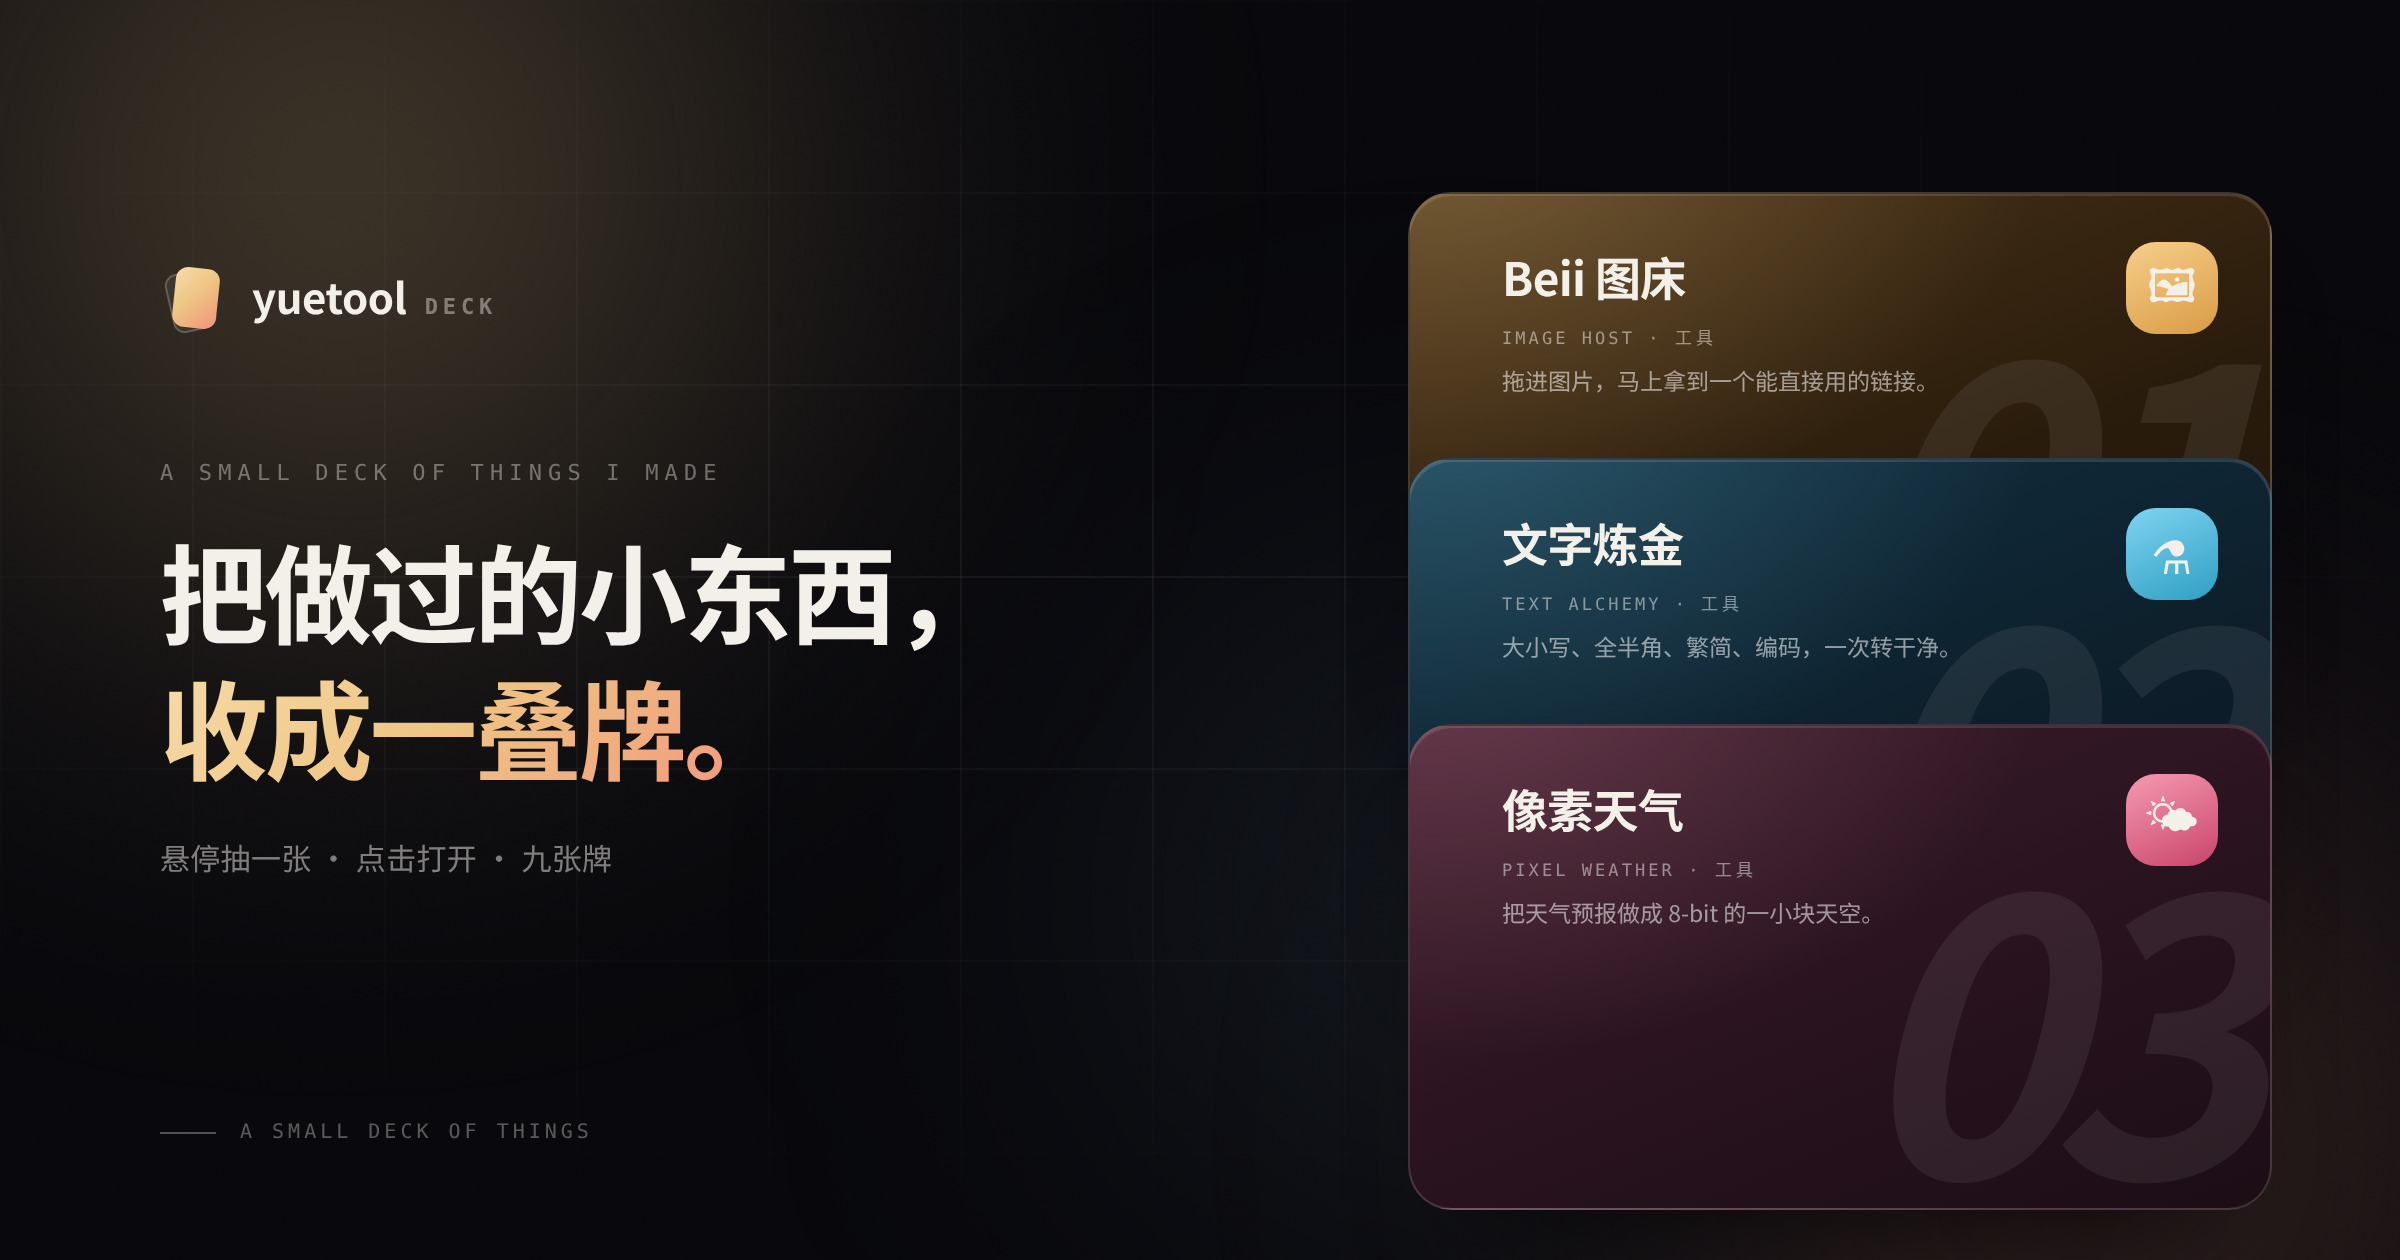
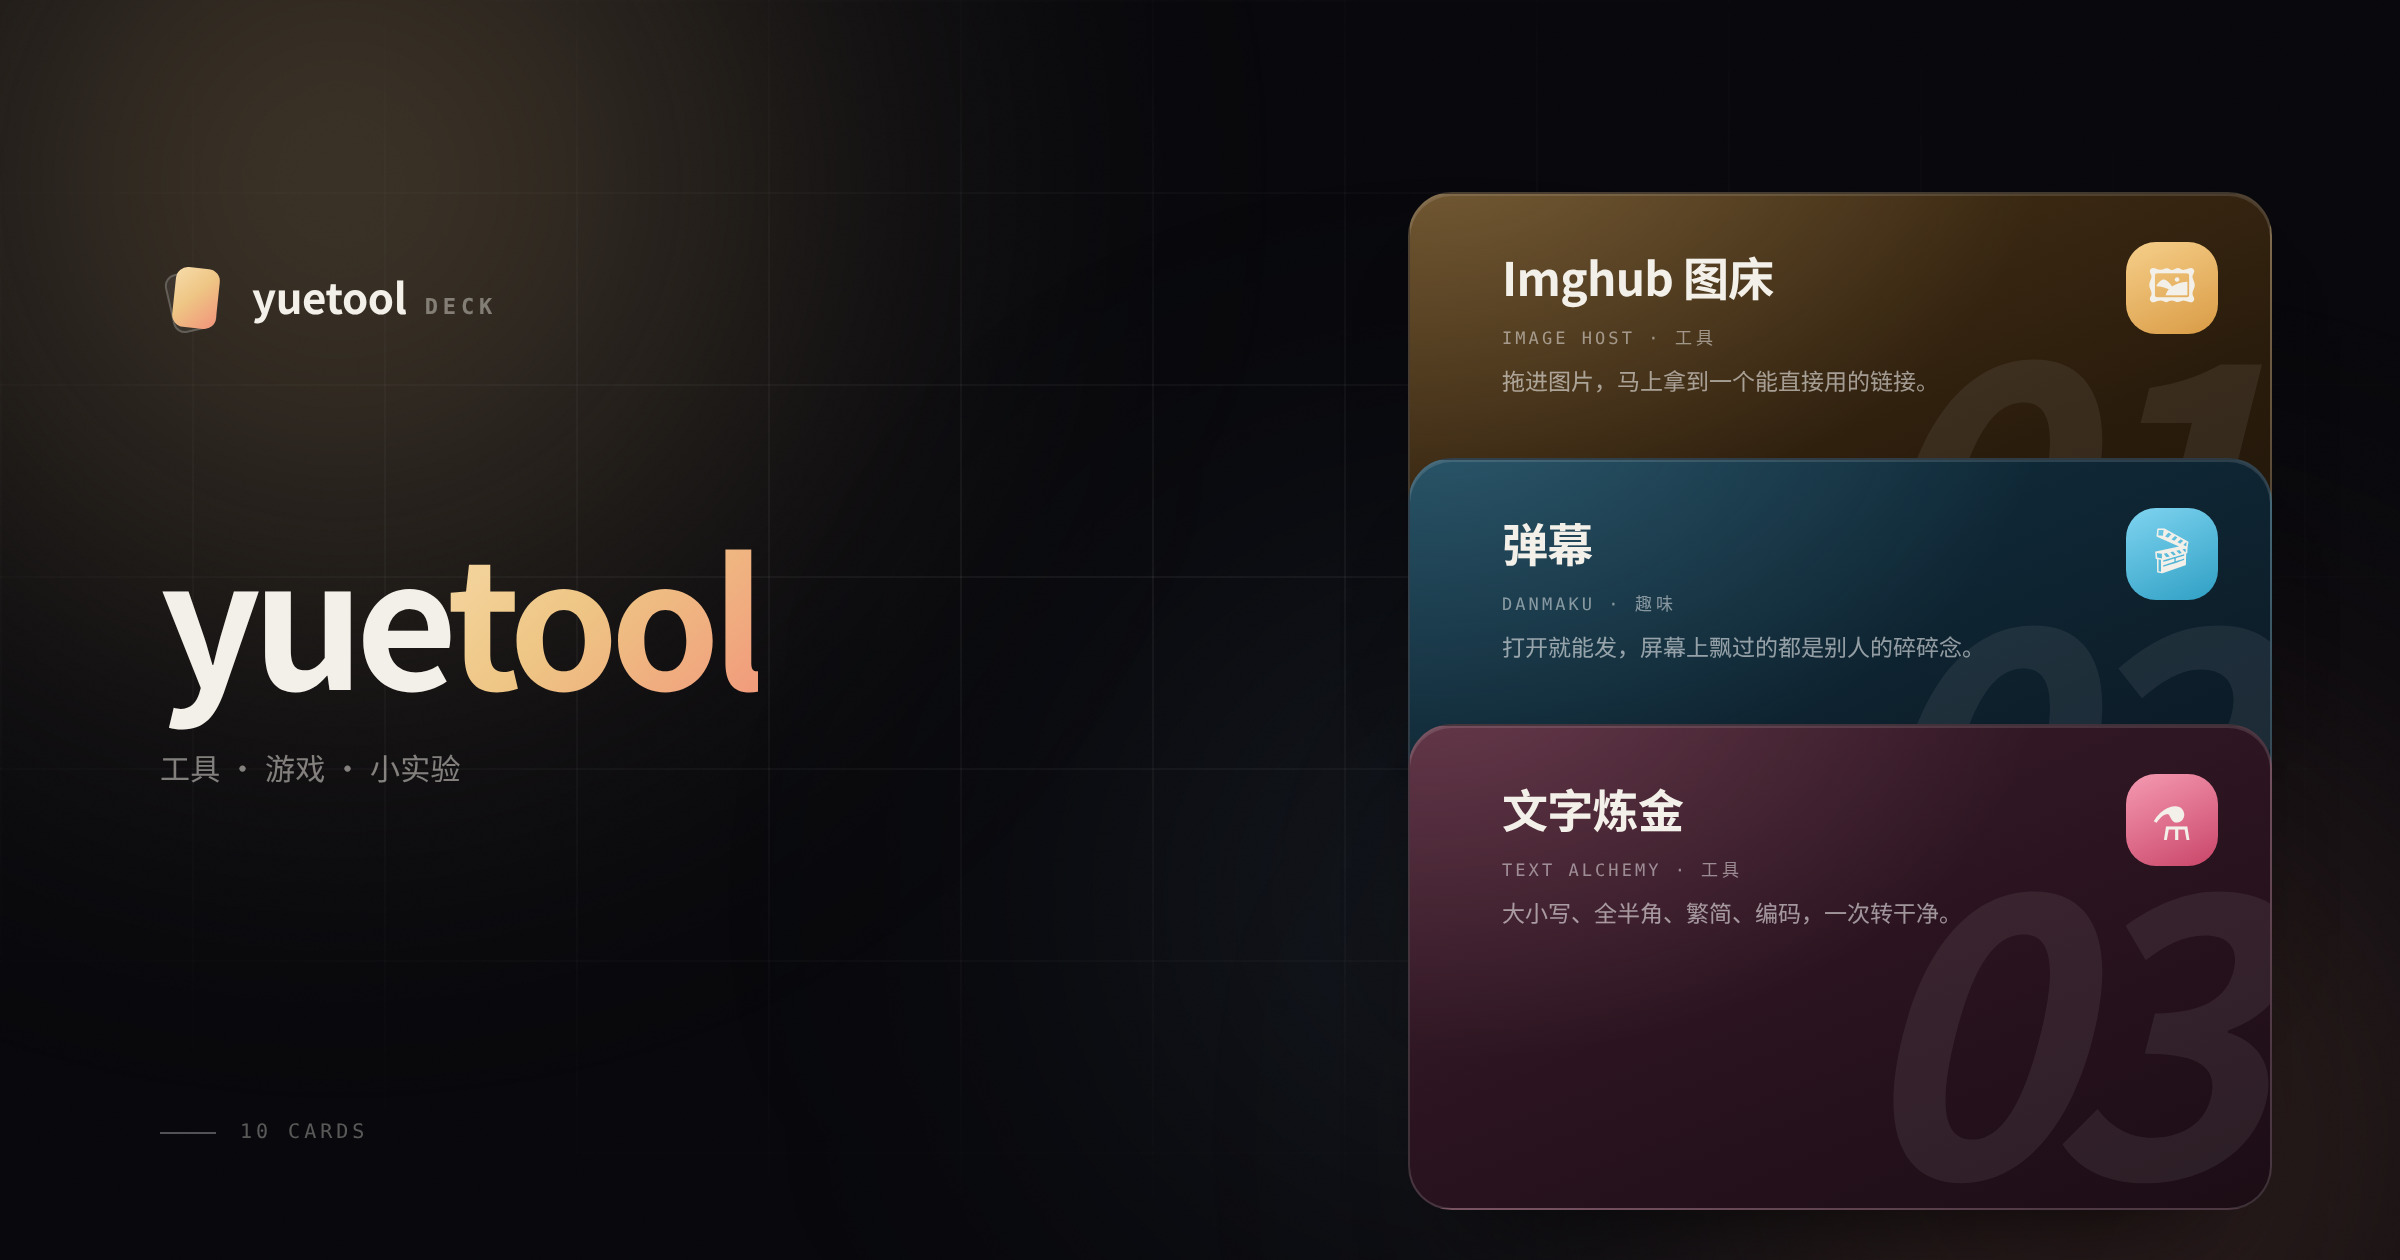
feat: rename image host to Imghub, add danmaku card, card lift effect

diff --git a/src/styles/card.css b/src/styles/card.css
@@ -1,7 +1,7 @@
 .card {
   --rw: var(--card-rw, 9);
   --rh: var(--card-rh, 16);
-  --lift: -17.65%;
+  --lift: -9.52%;
 
   position: relative;
   display: block;
@@ -69,6 +69,26 @@
 }
 :root[data-theme='light'] .card__frame {
   border-color: hsl(var(--hue) 60% 40% / 0.1);
+}
+
+/* 跟随指针的高光：像举到灯下的一张实体卡 */
+.card__face::before {
+  content: '';
+  position: absolute;
+  inset: 0;
+  z-index: 4;
+  pointer-events: none;
+  background: radial-gradient(
+    220px circle at var(--mx, 50%) var(--my, 0%),
+    hsl(var(--hue) 100% 95% / 0.16),
+    transparent 62%
+  );
+  opacity: 0;
+  transition: opacity 340ms var(--ease-out);
+}
+.card:hover .card__face::before,
+.card:focus-visible .card__face::before {
+  opacity: 1;
 }
 
 /* 扫过牌面的一道光 */
@@ -250,17 +270,21 @@
 }
 
 /* 横版 + 精确指针：整张牌向左抽出，填满左侧预留的车道 */
-@media (hover: hover) and (pointer: fine) {
+@media (hover: hover) and (pointer: fine) and (min-width: 900px) {
   .card:hover .card__face,
   .card:focus-visible .card__face {
     will-change: transform;
   }
 
   .card:hover .card__face {
-    transform: translate3d(var(--lift), 0, 0) rotate(0deg);
-    border-color: hsl(var(--hue) 85% 74% / 0.42);
-    box-shadow: 0 34px 60px -32px hsl(var(--hue) 85% 22% / 0.95),
-      0 14px 26px -18px rgba(0, 0, 0, 0.6), inset 0 1px 0 hsl(var(--hue) 95% 88% / 0.16);
+    transform: translate3d(var(--lift), 0, 0) rotate(0deg) scale(1.022);
+    border-color: hsl(var(--hue) 88% 78% / 0.55);
+    filter: saturate(1.08) brightness(1.06);
+    box-shadow: 0 42px 72px -30px hsl(var(--hue) 85% 18% / 0.98),
+      0 18px 30px -18px rgba(0, 0, 0, 0.62),
+      0 0 56px -14px hsl(var(--hue) 92% 62% / 0.45),
+      inset 0 0 0 1px hsl(var(--hue) 95% 88% / 0.2),
+      inset 0 1px 0 hsl(var(--hue) 95% 92% / 0.2);
   }
   .card:hover .card__face::after {
     opacity: 1;
@@ -278,16 +302,21 @@
   }
 
   :root[data-theme='light'] .card:hover .card__face {
-    border-color: hsl(var(--hue) 55% 52% / 0.35);
-    box-shadow: 0 32px 56px -34px hsl(var(--hue) 55% 35% / 0.45),
-      0 14px 26px -20px rgba(60, 45, 30, 0.2), inset 0 1px 0 rgba(255, 255, 255, 0.9);
+    border-color: hsl(var(--hue) 62% 50% / 0.45);
+    filter: saturate(1.06) brightness(1.02);
+    box-shadow: 0 38px 64px -32px hsl(var(--hue) 55% 32% / 0.42),
+      0 18px 30px -22px rgba(60, 45, 30, 0.24),
+      0 0 48px -18px hsl(var(--hue) 65% 50% / 0.35),
+      inset 0 0 0 1px rgba(255, 255, 255, 0.55),
+      inset 0 1px 0 rgba(255, 255, 255, 0.9);
   }
   :root[data-theme='light'] .card:hover .card__series {
     color: hsl(var(--hue) 62% 34% / 0.11);
   }
 
   .card:active .card__face {
-    transform: translate3d(calc(var(--lift) * 0.5), 0, 0) rotate(0deg);
+    transform: translate3d(calc(var(--lift) * 0.55), 0, 0) rotate(0deg) scale(1.004);
+    transition-duration: 140ms;
   }
 }
 
@@ -450,5 +479,33 @@
   .card__about-links a {
     padding: 7px 13px;
     font-size: 0.74rem;
+  }
+}
+
+
+/* 有牌被抽出时，其余牌轻轻压暗，像舞台只打了一束光 */
+@media (hover: hover) and (pointer: fine) {
+  .deck:has(.card:hover) .card:not(:hover) .card__face {
+    filter: brightness(0.9) saturate(0.86);
+  }
+  :root[data-theme='light'] .deck:has(.card:hover) .card:not(:hover) .card__face {
+    filter: brightness(0.97) saturate(0.9);
+  }
+}
+
+/* 竖卡 + 精确指针：不做横向抽出（没有车道），只上浮一点 */
+@media (hover: hover) and (pointer: fine) and (max-width: 899.98px) {
+  .card:hover .card__face,
+  .card:focus-visible .card__face {
+    transform: translate3d(0, -8px, 0) rotate(var(--tilt, 0deg)) scale(1.012);
+    border-color: hsl(var(--hue) 88% 78% / 0.45);
+    box-shadow: 0 30px 50px -26px hsl(var(--hue) 85% 20% / 0.95),
+      0 0 40px -16px hsl(var(--hue) 92% 62% / 0.4);
+  }
+  .card:hover .card__icon {
+    transform: scale(1.05);
+  }
+  .card:active .card__face {
+    transform: translate3d(0, -3px, 0) rotate(var(--tilt, 0deg)) scale(0.995);
   }
 }

diff --git a/src/components/DeckIntro.vue b/src/components/DeckIntro.vue
@@ -22,17 +22,12 @@ defineExpose({ focus: () => input.value?.focus() })
 
 <template>
   <section class="intro" aria-labelledby="intro-title">
-    <div class="intro__copy">
-      <p class="intro__eyebrow">{{ site.eyebrow }}</p>
-      <h1 id="intro-title" class="intro__title">
-        {{ site.tagline }}<br />
-        <em>{{ site.taglineStrong }}</em>
-      </h1>
-      <p class="intro__hint">
-        {{ site.hint }}
-        <span class="intro__count">{{ count }}<span v-if="count !== total"> / {{ total }}</span> 张</span>
-      </p>
-    </div>
+    <h1 id="intro-title" class="visually-hidden">{{ site.name }} · 牌堆</h1>
+
+    <p class="intro__hint">
+      {{ site.hint }}
+      <span class="intro__count">{{ count }}<span v-if="count !== total"> / {{ total }}</span> 张</span>
+    </p>
 
     <div class="intro__tools">
       <label class="search" :class="{ 'is-focused': focused }">
@@ -76,49 +71,20 @@ defineExpose({ focus: () => input.value?.focus() })
 <style scoped>
 .intro {
   display: flex;
-  align-items: flex-end;
+  align-items: center;
   justify-content: space-between;
-  gap: clamp(20px, 4vw, 48px);
-  padding-bottom: clamp(24px, 3.4vw, 40px);
-}
-
-.intro__copy {
-  min-width: 0;
-}
-
-.intro__eyebrow {
-  font-family: var(--font-mono);
-  font-size: 0.6rem;
-  letter-spacing: 0.26em;
-  text-transform: uppercase;
-  color: var(--text-3);
-  margin-bottom: 14px;
-}
-
-.intro__title {
-  font-size: clamp(1.6rem, 3.1vw, 2.45rem);
-  font-weight: 600;
-  line-height: 1.25;
-  letter-spacing: -0.025em;
-  text-wrap: balance;
-}
-
-.intro__title em {
-  font-style: normal;
-  background: var(--accent-grad);
-  -webkit-background-clip: text;
-  background-clip: text;
-  -webkit-text-fill-color: transparent;
-  color: transparent;
+  gap: 18px;
+  padding-bottom: clamp(18px, 2.4vw, 26px);
 }
 
 .intro__hint {
-  margin-top: 14px;
   display: flex;
   align-items: center;
   flex-wrap: wrap;
   gap: 10px;
-  font-size: 0.8rem;
+  min-width: 0;
+  font-size: 0.78rem;
+  letter-spacing: 0.01em;
   color: var(--text-3);
 }
 
@@ -130,6 +96,7 @@ defineExpose({ focus: () => input.value?.focus() })
   border-radius: var(--radius-pill);
   border: 1px solid var(--line);
   color: var(--text-2);
+  white-space: nowrap;
 }
 
 .intro__tools {
@@ -240,7 +207,7 @@ defineExpose({ focus: () => input.value?.focus() })
   .intro {
     flex-direction: column;
     align-items: stretch;
-    gap: 22px;
+    gap: 14px;
   }
   .intro__tools {
     justify-content: space-between;

diff --git a/src/data/site.js b/src/data/site.js
@@ -16,9 +16,6 @@
 export const site = {
   name: 'yuetool',
   title: 'yuetool · 牌堆',
-  tagline: '把做过的小东西，',
-  taglineStrong: '收成一叠牌。',
-  eyebrow: 'A SMALL DECK OF THINGS I MADE',
   hint: '悬停抽一张 · 点击打开',
   author: 'yuetool',
   since: 2026,
@@ -42,13 +39,22 @@ const HUES = [32, 202, 344, 164, 268, 12, 190, 96, 222, 316, 48, 148]
 /** 示例牌：把 url 换成你自己的项目地址即可 */
 const SAMPLES = [
   {
-    id: 'beii-image-host',
-    name: 'Beii 图床',
+    id: 'imghub-image-host',
+    name: 'Imghub 图床',
     en: 'Image Host',
     tag: '工具',
     desc: '拖进图片，马上拿到一个能直接用的链接。',
     url: 'https://beii.cc.cd',
     emoji: '🖼'
+  },
+  {
+    id: 'danmaku',
+    name: '弹幕',
+    en: 'Danmaku',
+    tag: '趣味',
+    desc: '打开就能发，屏幕上飘过的都是别人的碎碎念。',
+    url: 'https://yue.dpdns.org',
+    emoji: '🎬'
   },
   {
     id: 'text-alchemy',

diff --git a/src/components/DeckCard.vue b/src/components/DeckCard.vue
@@ -32,6 +32,15 @@ const style = computed(() => ({
   '--tilt': `${props.index % 2 === 0 ? -0.35 : 0.35}deg`
 }))
 
+/** 指针位置换算成卡面百分比，驱动高光跟着手走 */
+function onPointerMove(event) {
+  const face = event.currentTarget.querySelector('.card__face')
+  if (!face) return
+  const rect = face.getBoundingClientRect()
+  face.style.setProperty('--mx', `${((event.clientX - rect.left) / rect.width) * 100}%`)
+  face.style.setProperty('--my', `${((event.clientY - rect.top) / rect.height) * 100}%`)
+}
+
 function onOpen(event) {
   if (sample.value) {
     event.preventDefault()
@@ -47,6 +56,7 @@ function onOpen(event) {
     :style="style"
     :aria-label="`${app.name}${app.tag ? '，' + app.tag : ''}${app.desc ? '，' + app.desc : ''}`"
     @click="onOpen"
+    @pointermove="onPointerMove"
   >
     <span class="card__face">
       <span class="card__frame" aria-hidden="true" />

diff --git a/index.html b/index.html
@@ -4,7 +4,7 @@
     <meta charset="UTF-8" />
     <meta name="viewport" content="width=device-width, initial-scale=1.0, viewport-fit=cover" />
     <meta name="theme-color" content="#08080c" />
-    <meta name="description" content="yuetool — 把做过的小东西，收成一叠牌。" />
+    <meta name="description" content="yuetool — 一叠小工具、小游戏和小实验。" />
     <meta name="author" content="yuetool" />
 
     <meta property="og:type" content="website" />

diff --git a/src/components/Deck.vue b/src/components/Deck.vue
@@ -136,11 +136,13 @@ function onKeydown(event) {
     --card-rw: 16;
     --card-rh: 9;
     --band: 0.3;
-    max-width: 1000px;
+    max-width: 1120px;
     padding-inline: clamp(24px, 4vw, 40px);
   }
   .deck {
-    padding-left: 15%;
+    /* 左右各留 8% 作为抽出车道：牌堆整体居中，
+       悬停时向左抽出 8% 容器宽（= 9.52% 卡宽），正好填满车道 */
+    padding-inline: 8%;
     min-width: 620px;
   }
 }

diff --git a/src/App.vue b/src/App.vue
@@ -100,7 +100,7 @@ onBeforeUnmount(() => window.removeEventListener('keydown', onKeydown))
 .main {
   position: relative;
   z-index: var(--z-content);
-  padding-top: 104px;
+  padding-top: 92px;
 }
 
 .shell {
@@ -111,7 +111,7 @@ onBeforeUnmount(() => window.removeEventListener('keydown', onKeydown))
 
 @media (min-width: 760px) {
   .main {
-    padding-top: 124px;
+    padding-top: 108px;
   }
 }
 </style>

diff --git a/README.md b/README.md
@@ -28,9 +28,8 @@ npm run preview  # 本地预览构建结果
 ```js
 export const site = {
   name: 'yuetool',               // 品牌名，导航与页脚
-  tagline: '把做过的小东西，',    // 首页大标题第一行
-  taglineStrong: '收成一叠牌。',  // 第二行（渐变字）
-  github: 'https://github.com/你的用户名',
+  hint: '悬停抽一张 · 点击打开',  // 工具栏左侧的小字
+  github: '',                    // 留空则不显示 GitHub 入口
   email: '',                     // 留空则不显示邮件入口
   about: { /* 最后那张说明牌的内容 */ }
 }
@@ -122,7 +121,7 @@ yuetool-deck/
 ├─ src/
 │  ├─ components/
 │  │  ├─ NavBar.vue          顶栏：双牌字标、GitHub、主题开关
-│  │  ├─ DeckIntro.vue       标题、搜索、洗牌
+│  │  ├─ DeckIntro.vue       工具条：提示、搜索、洗牌
 │  │  ├─ Deck.vue            牌堆容器、键盘导航、空状态
 │  │  ├─ DeckCard.vue        单张牌
 │  │  ├─ ColophonCard.vue    最后一张说明牌
